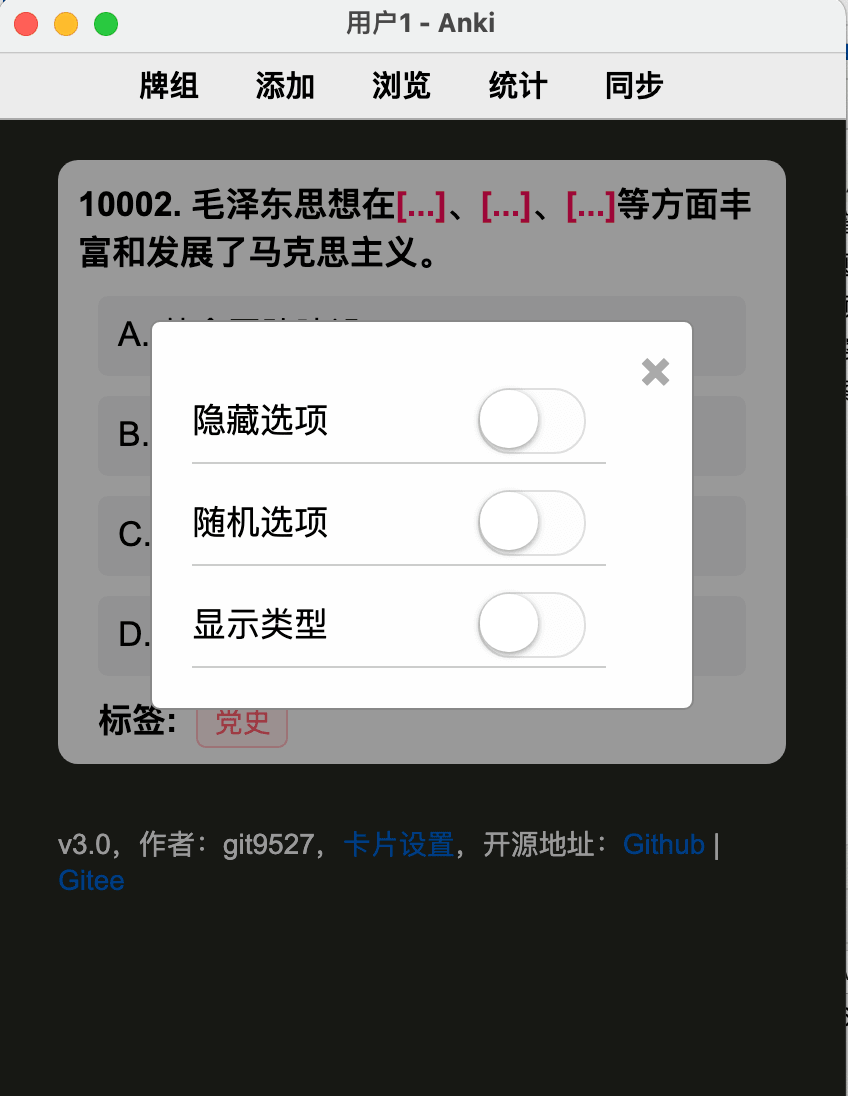
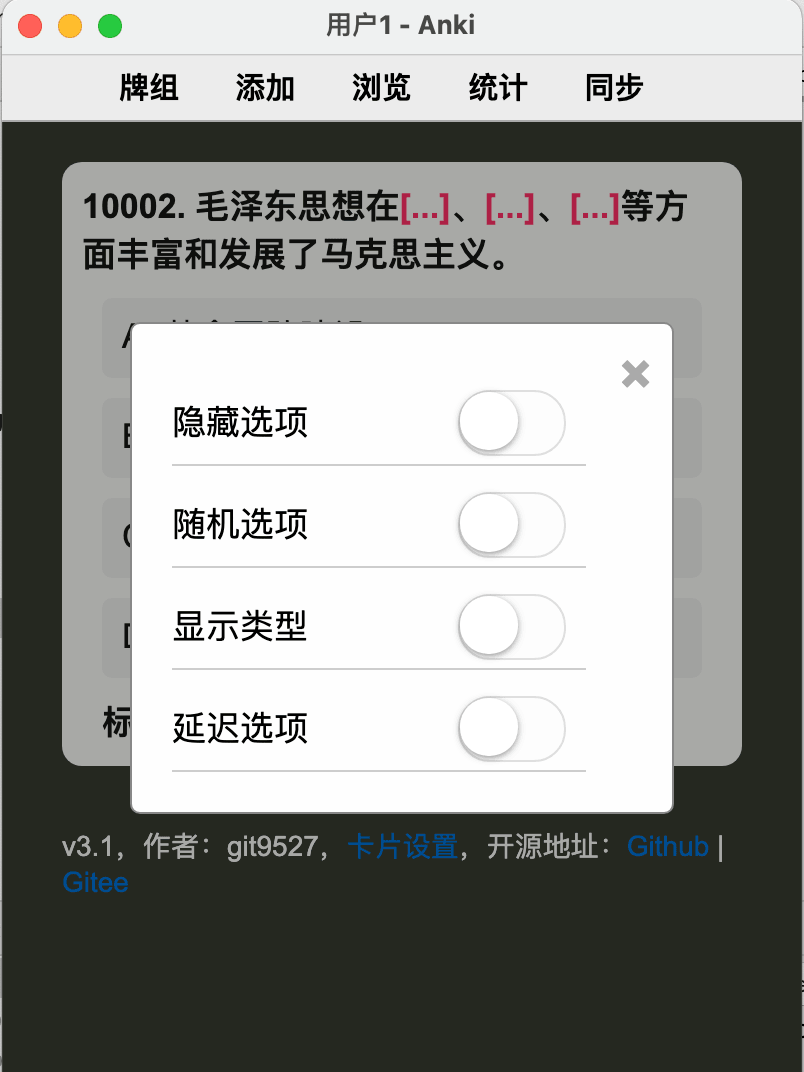
upgrade to 3.1

diff --git a/front.html b/front.html
@@ -11,7 +11,7 @@
   </div>
 </div>
 
-<div class="footer">v3.0，作者：git9527，<a href="javascript:showSettings();">卡片设置</a>，开源地址：<a href="https://github.com/git9527/anki-awesome-select">Github</a> | <a href="https://gitee.com/git9527/anki-awesome-select">Gitee</a></div>
+<div class="footer">v3.1，作者：git9527，<a href="javascript:showSettings();">卡片设置</a>，开源地址：<a href="https://github.com/git9527/anki-awesome-select">Github</a> | <a href="https://gitee.com/git9527/anki-awesome-select">Gitee</a></div>
 
 <div id="answer" style="display:none">{{answer}}</div>
 <div id="options" style="display:none">{{options}}</div>
@@ -40,6 +40,12 @@
           <input id="show-type" class="mui-switch mui-switch-anim" type="checkbox" onchange="switchShowType(this)">
         </div>
       </div>
+      <div class="single-setting">
+        <div class="setting-label">延迟选项</div>
+        <div class="setting-switch">
+          <input id="delay-option" class="mui-switch mui-switch-anim" type="checkbox" onchange="switchDelayOption(this)">
+        </div>
+      </div>
     </div>
   </div>
 
@@ -50,10 +56,12 @@
   var showQuestionType = '0'
   var hideOptions = '0'
   var randomOptions = '0'
+  var delayOptions = '0'
 
-  function showFrontOptions(hideOption, randomOption) {
+  function showFrontOptions(hideOption, randomOption, delayOption) {
     var keySeq = []
     var optionObjs = getOptionObjs(randomOption)
+    initEmptyOptionList(optionObjs)
     var liList = ''
     for (var i in optionObjs) {
       var _optionObj = optionObjs[i]
@@ -68,6 +76,21 @@
     }
     if (Persistence.isAvailable()) {
       Persistence.setItem('ANKI-OPTIONS-ORDER', keySeq.toString())
+    }
+    if (delayOption === '1') {
+      setTimeout(function () {
+        document.getElementById("optionFront").innerHTML = liList
+      }, 500)
+    } else {
+      document.getElementById("optionFront").innerHTML = liList
+    }
+  }
+
+  function initEmptyOptionList(optionObjs) {
+    var liList = ''
+    for (var i in optionObjs) {
+      var prefix = String.fromCharCode(Number.parseInt(i) + 65)
+      liList += "<li class='option'>" + prefix + ".</li>"
     }
     document.getElementById("optionFront").innerHTML = liList
   }
@@ -173,11 +196,14 @@
       showQuestionType = Persistence.getItem('ANKI-SETTINGS-SHOW-QUESTION-TYPE') || '0'
       hideOptions = Persistence.getItem('ANKI-SETTINGS-HIDE-OPTIONS') || '0'
       randomOptions = Persistence.getItem('ANKI-SETTINGS-RANDOM-OPTIONS') || '0'
+      delayOptions = Persistence.getItem('ANKI-SETTINGS-DELAY-OPTIONS') || '0'
+      Persistence.setItem('ANKI-SELECTED', '')
     }
     document.getElementById('hide-option').checked = hideOptions === '1'
     document.getElementById('random-option').checked = randomOptions === '1'
     document.getElementById('show-type').checked = showQuestionType === '1'
-    showFrontOptions(hideOptions, randomOptions)
+    document.getElementById('delay-option').checked = delayOptions === '1'
+    showFrontOptions(hideOptions, randomOptions, delayOptions)
     dealQuestionType(showQuestionType)
   }
 
@@ -186,7 +212,15 @@
     if (Persistence.isAvailable()) {
       Persistence.setItem('ANKI-SETTINGS-HIDE-OPTIONS', key)
     }
-    showFrontOptions(key, randomOptions)
+    showFrontOptions(key, randomOptions, delayOptions)
+  }
+
+  function switchDelayOption(input) {
+    var key = input.checked ? '1' : '0'
+    if (Persistence.isAvailable()) {
+      Persistence.setItem('ANKI-SETTINGS-DELAY-OPTIONS', key)
+    }
+    showFrontOptions(hideOptions, randomOptions, key)
   }
 
   function switchRandomOption(input) {
@@ -194,7 +228,7 @@
     if (Persistence.isAvailable()) {
       Persistence.setItem('ANKI-SETTINGS-RANDOM-OPTIONS', key)
     }
-    showFrontOptions(hideOptions, key)
+    showFrontOptions(hideOptions, key, delayOptions)
   }
 
   function switchShowType(input) {
@@ -216,4 +250,5 @@
   applySettings()
   showTags()
   renameIosSendMessage()
+
 </script>

diff --git a/back.html b/back.html
@@ -21,7 +21,7 @@
 
 </div>
 
-<div class="footer">v3.0，作者：git9527，开源地址：<a href="https://github.com/git9527/anki-awesome-select">Github</a> | <a href="https://gitee.com/git9527/anki-awesome-select">Gitee</a></div>
+<div class="footer">v3.1，作者：git9527，开源地址：<a href="https://github.com/git9527/anki-awesome-select">Github</a> | <a href="https://gitee.com/git9527/anki-awesome-select">Gitee</a></div>
 
 <div id="answer" style="display:none">{{answer}}</div>
 <div id="options" style="display:none">{{options}}</div>

diff --git a/styles.css b/styles.css
@@ -117,8 +117,7 @@ a {
     width: 100%; /* Full width */
     height: 100%; /* Full height */
     overflow: auto; /* Enable scroll if needed */
-    background-color: rgb(0, 0, 0); /* Fallback color */
-    background-color: rgba(0, 0, 0, 0.4); /* Black w/ opacity */
+    background-color: rgba(39, 40, 34, 0.4); /* Black w/ opacity */
 }
 
 /* Modal Content */

diff --git a/README.md b/README.md
@@ -1,6 +1,11 @@
 # Anki的选择题模板
 
 ## 更新日志:
+v3.1:
+1. 调整弹窗背景颜色，与卡片默认背景色保持一致
+2. 进入卡片时，清除可能存在的已选择项
+3. 增加【选项延迟】的设置项，开启后延迟500毫秒显示选项
+
 v3.0:
 1. 增加【卡片设置】功能：a).隐藏选项 b).显示类型 c).随机排序
 2. 多选模式下当选择个数与答案个数相同时，自动翻转至卡片背面
@@ -42,6 +47,7 @@ v1.5:
 1. 隐藏选项：适用位置不变的速答题，是否将选项隐藏（仅显示第一个汉字)，记住位置
 2. 随机选项：是否将选项的位置随机打乱
 3. 显示类型：是否在问题前显示题目的类型（【单选】或【多选】）
+4. 延迟选项：是否延迟500毫秒显示选项
 
 ## 各平台截图
 |平台             | 单选 | 多选 |
